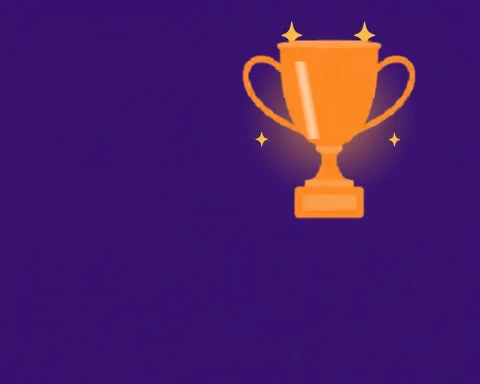
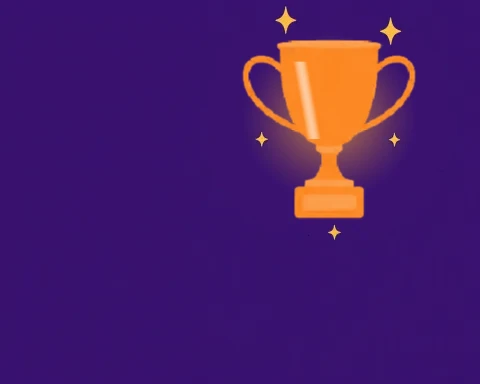
SKATGO-213 cards: platinum's shield lighter on its teal card, sparkles laid over the emblem
From the look through the human's eyes: the badge's teal shield sank into the teal card,
and two sparkles sat under the new emblems (the gold ribbon, the Legend cup's rim). The
shield is the same teal, lighter; every sparkle is laid back over the emblem and its
glow, one the emblem would cover moved clear. The ribbon's soft edge stays red.

Changed region(s): [[0.7188, 0.0312, 0.8438, 0.125], [0.5625, 0.0, 0.625, 0.125], [0.6875, 0.5938, 0.7188, 0.625]]

diff --git a/.intentfold/tickets/SKATGO-213/ac.md b/.intentfold/tickets/SKATGO-213/ac.md
@@ -8,8 +8,9 @@ ticket database only (six accounts, one per League tier).
    no blue ribbon; bronze's card is the one shipped. Screenshot of the six cards.
 2. **Platinum, Diamond, Legend.** Platinum's card has teal shield pixels and a white star; Diamond's diamond is darker
    than the shipped card's; Legend's card has the orange cup and its glow, and none of the crown's laurel green.
-3. **Unchanged around them.** Each card's ground and sparkles: outside the old and new emblem squares, the picture equals
-   the shipped one (no pixel off by more than WebP noise). The cards' size and words: EN and DE, 375 and 1280 — six
+3. **Unchanged around them.** Each card's ground: outside where the emblems stand, the picture equals the shipped one (no
+   pixel off by more than WebP noise). Its sparkles: as many as on the shipped card, none under the new emblem (one the
+   emblem would cover moves clear of it). The cards' size and words: EN and DE, 375 and 1280 — six
    cards, the picture filling each card, the name and fee inside it, each card's size and each line count the same as
    on the base build (German fees already wrap to two lines on a phone there).
 4. **A device that kept the old pictures.** One browser profile opens the League page and the home page on the base
